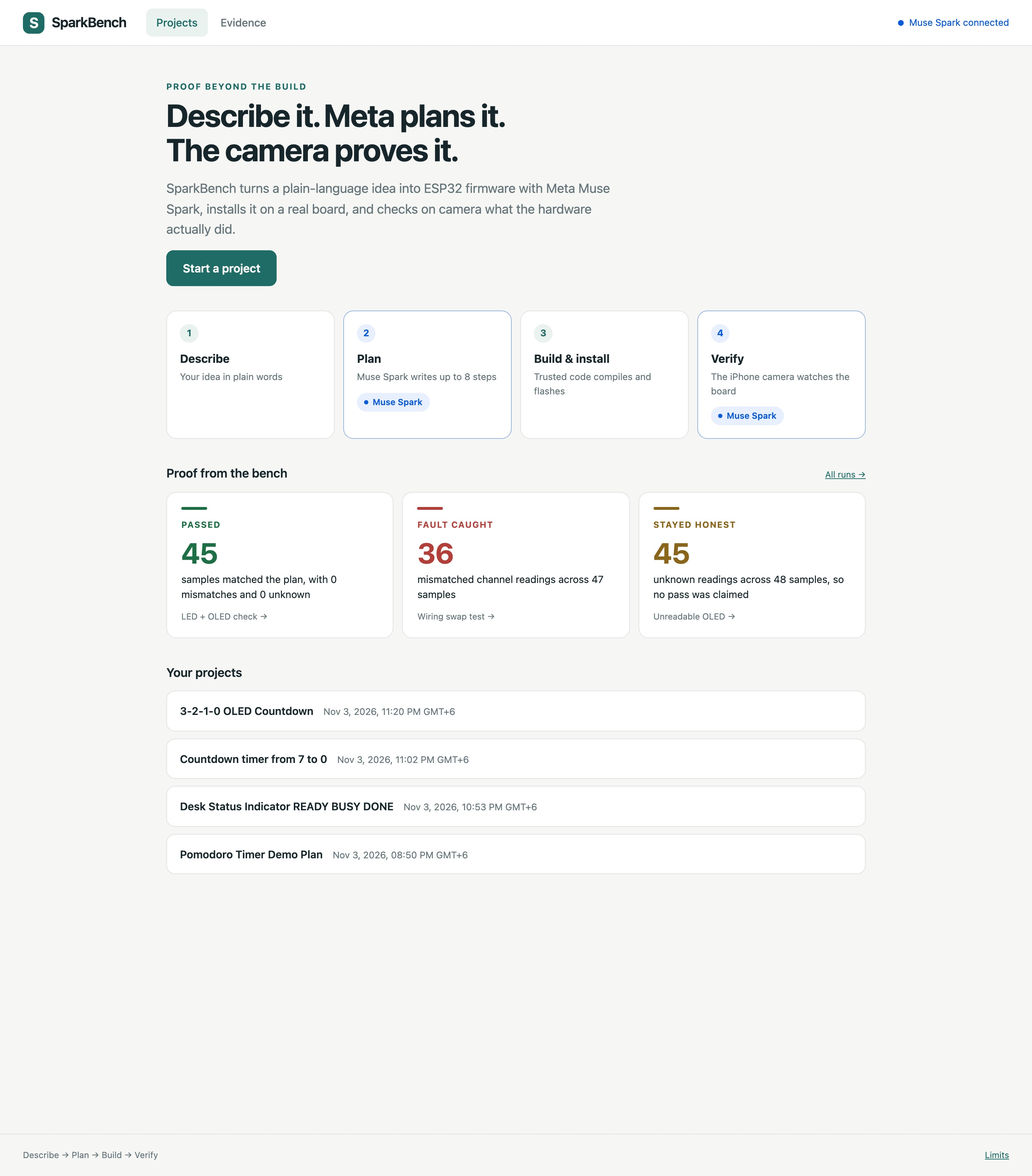
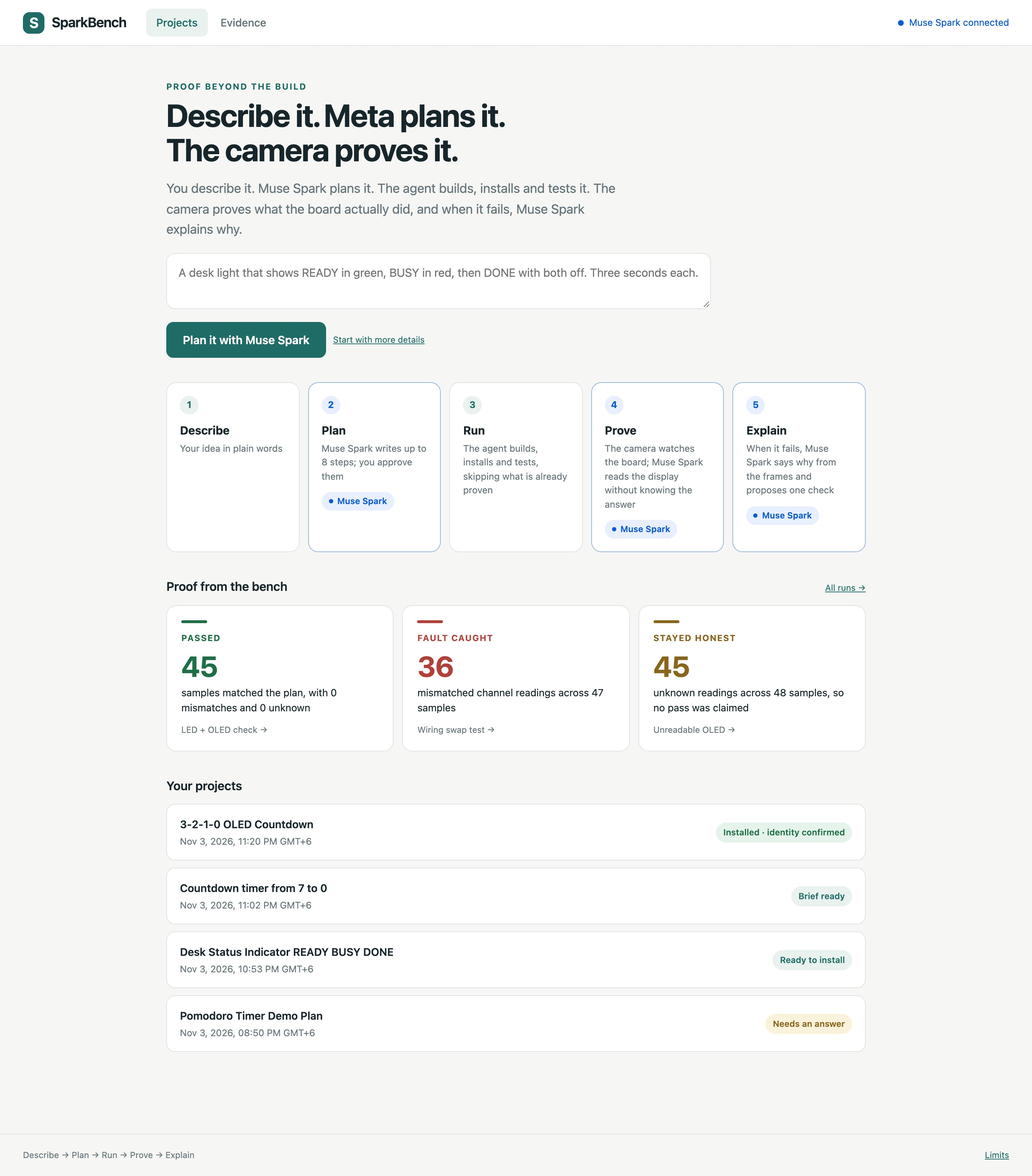
Home box to plan panel to agent; dashboard aligned with the story
The home page now opens with the idea box: "Plan it with Muse Spark"
creates the project, asks for the brief, accepts it and asks for the
step plan, all behind a panel that shows the state (planning, a
question with a reply box, the step table) and one button, "Approve
plan and run on the bench", which opens the project on the agent's
timeline. "Start with more details" still opens the full form.

Align the rest with the story: the home loop has the five beats
(describe, plan, run, prove, explain) with Muse Spark marked on three;
the lead sentence says who does what; project cards show their outcome
(verified on camera, mismatch, installed, needs an answer); the third
stage is "Prove it on the bench"; the verdict block states who did
what (plan: Muse Spark; firmware: trusted code; LEDs: pixels; OLED:
Muse Spark, blind; verdict: independent verifier; explanation: Muse
Spark, advisory). Verified home-to-bench in the browser with creation,
planning, hardware and Meta calls mocked; no console errors.

diff --git a/src/sparkbench/dashboard/static/projects.js b/src/sparkbench/dashboard/static/projects.js
@@ -1,9 +1,11 @@
 'use strict';
 let lastGuideRender='',project=null,projectCatalog=[],assemblySteps=[],projectVersion=0,projectPhotos=[],guideCapture=false,sourceFiles={};
 const uid=()=>crypto.randomUUID().replaceAll('-','');
-function projectError(message){$('project-error').textContent=message;$('project-error').hidden=false;}
+function projectError(message){$('project-error').textContent=message;$('project-error').hidden=false;if($('plan-dialog').open){$('dlg-error').textContent=message;$('dlg-error').hidden=false;}}
 function showGuide(){selectionVersion++;clearImage();current=null;showView('project');}
-async function refreshProjects(){const data=await api('/api/projects');projectCatalog=data.catalog;assemblySteps=data.assembly;$('project-list').replaceChildren(...(data.projects.length?data.projects.map(p=>{const b=node('button',undefined,'saved-plan-button');b.type='button';b.append(node('strong',p.title),node('small',p.busy?'Meta request in progress':date(p.updated_at_utc)));b.addEventListener('click',()=>openProject(p.id));return b;}):[node('p','Your saved builds appear here.','small muted')]));}
+// Each card shows where the project stands, from the same records the project page uses.
+async function projectOutcome(p){try{const s=await api('/api/projects/'+p.id+'/firmware-status');if(s.camera_result?.status==='pass')return ['Verified on camera','done'];if(s.camera_result?.status==='fail')return ['Mismatch on camera','bad'];if(s.state==='accept_brief'){const d=(await api('/api/projects/'+p.id)).draft;return d?.decision==='clarify'?['Needs an answer','warn']:d?.decision==='unsupported'?['Outside the kit','warn']:d?['Brief ready',''] :['Planning','']; }return [lifecycleLabels[s.state]||s.state,s.state==='installed'?'done':''];}catch(e){return ['',''];}}
+async function refreshProjects(){const data=await api('/api/projects');projectCatalog=data.catalog;assemblySteps=data.assembly;const outcomes=await Promise.all(data.projects.map(projectOutcome));$('project-list').replaceChildren(...(data.projects.length?data.projects.map((p,i)=>{const b=node('button',undefined,'saved-plan-button');b.type='button';const text=node('span');text.append(node('strong',p.title),node('small',p.busy?'Muse Spark is working…':date(p.updated_at_utc)));b.append(text);const [label,state]=outcomes[i];if(label){const pill=node('span',label,'pill');if(state)pill.dataset.state=state;b.append(pill);}b.addEventListener('click',()=>openProject(p.id));return b;}):[node('p','Your saved builds appear here.','small muted')]));}
 function fillProfile(){const profile=project?.profile;$('project-idea').value=project?.idea||'';$('project-idea').disabled=!!project;$('project-experience').value=profile?.experience||'beginner';$('project-budget').value=profile?.budget||'';$('project-parts-notes').value=profile?.parts_notes||'';const has=!!project;$('project-idea').hidden=has;$('project-idea-view').hidden=!has;$('project-idea-view').textContent=project?.idea||'';$('project-details').open=false;$('project-form-title').textContent=has?'The idea':'What should it do?';$('project-form-help').hidden=has;}
 async function openProject(id){showGuide();window.resetPlanStage?.();const version=++projectVersion;try{const p=await api('/api/projects/'+id);if(version!==projectVersion)return;project=p;fillProfile();clearProjectPhotos();renderProject();if(window.pollProjectFirmware)window.pollProjectFirmware(id,version);if(p.busy)pollProject(id,version);}catch(e){projectError(e.message);}}
 function listText(title,values,parent){if(!values?.length)return;const block=node('div',undefined,'guide-response-list');block.append(node('strong',title));const ul=node('ul');values.forEach(t=>ul.append(node('li',t)));block.append(ul);parent.append(block);}
@@ -54,7 +56,7 @@ $('open-guide').addEventListener('click',()=>{projectVersion++;project=null;show
 $('project-form').addEventListener('submit',async e=>{e.preventDefault();$('create-project').disabled=true;$('project-error').hidden=true;autoPlanNext=true;try{if(!plannerSession?.planning_available)throw new Error('Configure the existing Meta Contributor API locally before asking for a project.');project=await planningPost('/api/projects',{idea:$('project-idea').value,...profileValues(),request_id:uid()});fillProfile();renderProject();await refreshProjects();await sendGuide('Help me plan this idea. Clarify material missing details, suggest the required parts from the supported catalog, and give me one next step.');}catch(e){projectError(e.message);}finally{$('create-project').disabled=false;}});
 $('save-profile').addEventListener('click',()=>queueSave(()=>({})));$('guide-question-form').addEventListener('submit',e=>{e.preventDefault();sendGuide($('guide-question').value.trim());});
 // One next action at a time: accept-and-plan, open the existing plan, or reply to Muse Spark.
-function updateProjectActions(){const draft=project?.draft,accepted=project?.accepted,busy=!!project?.busy,snap=typeof lifecycleSnapshot!=='undefined'?lifecycleSnapshot:null;
+function updateProjectActionsCore(){const draft=project?.draft,accepted=project?.accepted,busy=!!project?.busy,snap=typeof lifecycleSnapshot!=='undefined'?lifecycleSnapshot:null;
  const changed=!!(accepted&&draft&&['title','summary','goals','components','firmware_instruction'].some(k=>JSON.stringify(draft[k])!==JSON.stringify(accepted.brief[k])));
  const canAccept=draft?.decision==='planned'&&(!accepted||changed),hasPlan=!!snap?.proposal,unresolved=!!draft&&!accepted&&draft.decision!=='planned';
  $('accept-brief').hidden=!canAccept;$('accept-brief').disabled=busy;$('accept-brief').textContent=accepted?'Accept the revised brief and plan →':'Accept and plan firmware →';
@@ -69,12 +71,27 @@ function updateProjectActions(){const draft=project?.draft,accepted=project?.acc
  else if(unresolved)$('lifecycle-next').textContent=draft.decision==='clarify'?'Next: answer the question so Muse Spark can finish the brief.':'Next: change the idea so it fits the bench, then ask again below.';
  else if(canAccept)$('lifecycle-next').textContent='Next: accept the '+(changed?'revised ':'')+'brief and plan the firmware.';
  else if(!snap)$('lifecycle-next').textContent='';}
+function updateProjectActions(){updateProjectActionsCore();window.updatePlanDialog?.();}
 window.updateProjectActions=updateProjectActions;
 async function prepareFirmware(){if(!project?.accepted||project.busy)return;try{if(!await queueSave(()=>({})))return;const job=await planningPost('/api/projects/'+project.id+'/firmware',{accepted_sha256:project.accepted.sha256,request_id:uid()});plannerBusy=true;showPlanner();pollProposal(job.id,++pollVersion);}catch(e){projectError(e.message);}}
 async function acceptAndPlan(){if(!project||project.busy)return;const latest=project.turns.findLast(t=>t.status==='complete');if(!latest)return;$('accept-brief').disabled=true;try{project=await planningPost('/api/projects/'+project.id+'/accept',{turn_id:latest.id});renderProject();await prepareFirmware();}catch(e){projectError(e.message);updateProjectActions();}}
 $('accept-brief').addEventListener('click',acceptAndPlan);$('project-firmware').addEventListener('click',prepareFirmware);
 $('brief-reply-form').addEventListener('submit',e=>{e.preventDefault();const text=$('brief-reply').value.trim();if(!text)return;$('brief-reply').value='';autoPlanNext=true;sendGuide(text);});
-$('approve-run').addEventListener('click',async()=>{if(!proposalResult||proposalResult.status!=='ready')return;$('approve-run').disabled=true;try{if(proposalResult.review_status!=='reviewed'){const r=await planningPost('/api/plans/'+proposalId+'/review',{plan_sha256:proposalResult.plan_sha256});renderProposal(r);}$('bench-stage').scrollIntoView({behavior:'smooth',block:'start'});await runBench();}catch(e){projectError(e.message);}finally{$('approve-run').disabled=false;updateProjectActions();}});
+async function approveAndRun(){if(!proposalResult||proposalResult.status!=='ready')return;$('approve-run').disabled=true;$('dlg-approve').disabled=true;try{if(proposalResult.review_status!=='reviewed'){const r=await planningPost('/api/plans/'+proposalId+'/review',{plan_sha256:proposalResult.plan_sha256});renderProposal(r);}if($('plan-dialog').open)$('plan-dialog').close();if($('guide-workspace').hidden)showView('project');$('bench-stage').hidden=false;$('bench-stage').scrollIntoView({behavior:'smooth',block:'start'});await runBench();}catch(e){projectError(e.message);}finally{$('approve-run').disabled=false;$('dlg-approve').disabled=false;updateProjectActions();}}
+$('approve-run').addEventListener('click',approveAndRun);$('dlg-approve').addEventListener('click',approveAndRun);
+// The plan modal mirrors the project's planning state so the home page can go idea → plan → bench.
+window.updatePlanDialog=function(){const d=$('plan-dialog');if(!d.open)return;const draft=project?.draft,accepted=project?.accepted,busy=!!project?.busy||(typeof plannerBusy!=='undefined'&&plannerBusy),ready=typeof proposalResult!=='undefined'&&proposalResult?.status==='ready';
+ $('dlg-title').textContent=accepted?.brief?.title||draft?.title||(project?'Planning your build':'New build');
+ const state=busy?(ready?'Muse Spark is updating the plan…':'Muse Spark is planning…'):ready?(proposalResult.review_status==='reviewed'?'Plan reviewed. Ready for the bench.':'Plan ready. Approve it to hand it to the agent.'):draft?.decision==='clarify'?'Muse Spark has a question for you':draft?.decision==='unsupported'?'That idea is outside the supported bench':draft?'Brief ready':'';
+ $('dlg-state').textContent=state;$('dlg-state').dataset.busy=String(busy);
+ $('dlg-summary').textContent=ready?(proposalResult.proposal?.summary||''):(draft?.summary||'');
+ $('dlg-goals').replaceChildren(...((ready?[]:(draft?.goals||[])).map(t=>node('li',t))));
+ const asking=draft?.decision==='clarify'&&!accepted&&!busy;$('dlg-question').hidden=!asking;$('dlg-question').replaceChildren(...((draft?.questions||[]).map(t=>node('p',t))));$('dlg-reply-form').hidden=!asking;
+ $('dlg-steps').replaceChildren(...[...$('proposal-steps').children].map(tr=>tr.cloneNode(true)));$('dlg-table').hidden=!ready;$('dlg-usage').textContent=ready?$('proposal-usage').textContent:'';
+ $('dlg-approve').hidden=!ready||busy;$('dlg-approve').textContent=proposalResult?.review_status==='reviewed'?'Run on the bench →':'Approve plan and run on the bench →';$('dlg-open').hidden=!project;};
+$('home-plan-form').addEventListener('submit',e=>{e.preventDefault();const idea=$('home-idea').value.trim();if(!idea)return;if(!plannerSession?.planning_available){projectError('Configure the Meta key first; see Limits.');return;}projectVersion++;project=null;window.resetPlanStage?.();fillProfile();clearProjectPhotos();$('project-idea').value=idea;$('project-experience').value='beginner';$('project-budget').value='';$('project-parts-notes').value='';$('project-error').hidden=true;$('dlg-error').hidden=true;renderProject();$('plan-dialog').showModal();window.updatePlanDialog();$('home-idea').value='';$('project-form').requestSubmit();});
+$('dlg-reply-form').addEventListener('submit',e=>{e.preventDefault();const text=$('dlg-reply').value.trim();if(!text)return;$('dlg-reply').value='';autoPlanNext=true;sendGuide(text);});
+$('dlg-open').addEventListener('click',()=>{$('plan-dialog').close();showView('project');});$('dlg-close').addEventListener('click',()=>$('plan-dialog').close());
 function clearProjectPhotos(){for(const p of projectPhotos)URL.revokeObjectURL(p.url);projectPhotos=[];$('guide-photos').value='';renderAttachments();}
 function renderAttachments(){$('guide-attachments').replaceChildren(...projectPhotos.map((p,i)=>{const figure=node('figure');const img=node('img');img.src=p.url;img.alt=p.name;const b=node('button','Remove','button');b.type='button';b.addEventListener('click',()=>{URL.revokeObjectURL(p.url);projectPhotos.splice(i,1);renderAttachments();});figure.append(img,node('figcaption',p.name,'small muted'),b);return figure;}));}
 async function attachFile(file){if(projectPhotos.length>=3)throw new Error('Attach up to three photos per question.');if(!['image/jpeg','image/png'].includes(file.type))throw new Error('Use JPEG or PNG photos; export HEIC as JPEG first.');if(file.size>20_000_000)throw new Error('Choose a photo smaller than 20 MB.');const bitmap=await createImageBitmap(file);if(bitmap.width*bitmap.height>50_000_000){bitmap.close();throw new Error('Please resize this very large image.');}const scale=Math.min(1,1600/Math.max(bitmap.width,bitmap.height));const canvas=document.createElement('canvas');canvas.width=Math.round(bitmap.width*scale);canvas.height=Math.round(bitmap.height*scale);canvas.getContext('2d').drawImage(bitmap,0,0,canvas.width,canvas.height);bitmap.close();const encoded=canvas.toDataURL('image/jpeg',.88);const blob=new Blob([Uint8Array.from(atob(encoded.split(',')[1]),c=>c.charCodeAt(0))],{type:'image/jpeg'});projectPhotos.push({name:(file.name.replace(/\.[^.]+$/,'')+'.jpg').slice(0,120),data:encoded.split(',')[1],url:URL.createObjectURL(blob)});renderAttachments();}

diff --git a/src/sparkbench/dashboard/static/index.html b/src/sparkbench/dashboard/static/index.html
@@ -34,15 +34,20 @@
   <div class="hero">
     <p class="eyebrow">Proof beyond the build</p>
     <h1 class="hero-title">Describe it. Meta plans it.<br>The camera proves it.</h1>
-    <p class="lead">SparkBench turns a plain-language idea into ESP32 firmware with Meta Muse Spark, installs it on a real board, and checks on camera what the hardware actually did.</p>
-    <div class="actions"><button id="open-guide" class="primary-button large" type="button">Start a project</button></div>
+    <p class="lead">You describe it. Muse Spark plans it. The agent builds, installs and tests it. The camera proves what the board actually did, and when it fails, Muse Spark explains why.</p>
+    <form id="home-plan-form" class="home-plan">
+      <label for="home-idea" class="sr-only">What should the board do?</label>
+      <textarea id="home-idea" rows="2" maxlength="2000" required placeholder="A desk light that shows READY in green, BUSY in red, then DONE with both off. Three seconds each."></textarea>
+      <div class="actions wrap"><button id="home-plan" class="primary-button large" type="submit">Plan it with Muse Spark</button><button id="open-guide" class="link-button" type="button">Start with more details</button></div>
+    </form>
   </div>
 
   <ol class="loop" aria-label="How it works">
     <li><span class="loop-n">1</span><strong>Describe</strong><span>Your idea in plain words</span></li>
-    <li class="meta"><span class="loop-n">2</span><strong>Plan</strong><span>Muse Spark writes up to 8 steps</span><em class="meta-chip">Muse Spark</em></li>
-    <li><span class="loop-n">3</span><strong>Build &amp; install</strong><span>Trusted code compiles and flashes</span></li>
-    <li class="meta"><span class="loop-n">4</span><strong>Verify</strong><span>The iPhone camera watches the board</span><em class="meta-chip">Muse Spark</em></li>
+    <li class="meta"><span class="loop-n">2</span><strong>Plan</strong><span>Muse Spark writes up to 8 steps; you approve them</span><em class="meta-chip">Muse Spark</em></li>
+    <li><span class="loop-n">3</span><strong>Run</strong><span>The agent builds, installs and tests, skipping what is already proven</span></li>
+    <li class="meta"><span class="loop-n">4</span><strong>Prove</strong><span>The camera watches the board; Muse Spark reads the display without knowing the answer</span><em class="meta-chip">Muse Spark</em></li>
+    <li class="meta"><span class="loop-n">5</span><strong>Explain</strong><span>When it fails, Muse Spark says why from the frames and proposes one check</span><em class="meta-chip">Muse Spark</em></li>
   </ol>
 
   <section class="home-section" aria-labelledby="proof-heading">
@@ -63,7 +68,7 @@
   <ol class="stepper" id="project-stepper">
     <li data-step="1" data-target="#project-form-card" class="current"><span>1</span>Describe</li>
     <li data-step="2" data-target="#plan-stage"><span>2</span>Plan</li>
-    <li data-step="3" data-target="#bench-stage"><span>3</span>Bench</li>
+    <li data-step="3" data-target="#bench-stage"><span>3</span>Prove</li>
   </ol>
   <p id="project-error" class="error-line" role="alert" hidden></p>
 
@@ -125,7 +130,7 @@
   </section>
 
   <section class="card stage-card" id="bench-stage" hidden>
-    <div class="stage-head"><span class="stage-n">3</span><h2>On the bench</h2><span id="autopilot-status" class="pill"></span></div>
+    <div class="stage-head"><span class="stage-n">3</span><h2>Prove it on the bench</h2><span id="autopilot-status" class="pill"></span></div>
     <p class="help">The agent runs the same jobs a person would click, skips what the records already prove, and stops wherever a person is needed. It never touches wiring or limits.</p>
     <ol id="timeline" class="timeline"></ol>
     <div class="actions wrap"><button id="run-bench" class="primary-button" type="button" disabled>Run on the bench</button><button id="stop-bench" class="button danger" type="button" hidden>Stop</button><span id="execution-status" class="help" role="status"></span></div>
@@ -138,6 +143,14 @@
         <div><strong id="test-mismatches"></strong><span>mismatches</span></div>
         <div><strong id="test-unknowns"></strong><span>unknown</span></div>
       </div>
+      <dl class="roles" aria-label="Who did what">
+        <div><dt>Plan</dt><dd class="role-meta">Muse Spark</dd></div>
+        <div><dt>Firmware</dt><dd>trusted local code</dd></div>
+        <div><dt>LEDs</dt><dd>pixel measurement</dd></div>
+        <div><dt>OLED text</dt><dd class="role-meta">Muse Spark, blind</dd></div>
+        <div><dt>Verdict</dt><dd>independent verifier</dd></div>
+        <div><dt>Explanation</dt><dd class="role-meta">Muse Spark, advisory</dd></div>
+      </dl>
     </div>
     <img id="execution-image" class="test-frame" alt="Camera test frame" hidden>
     <p id="execution-image-label" class="help"></p>
@@ -292,9 +305,29 @@
 </main>
 
 <footer class="footer">
-  <span>Describe → Plan → Bench</span>
+  <span>Describe → Plan → Run → Prove → Explain</span>
   <button id="open-limits" class="link-button" type="button">Limits</button>
 </footer>
+
+<dialog id="plan-dialog" aria-label="Plan">
+  <div class="dialog-header"><div><p class="eyebrow">Plan</p><strong id="dlg-title">Planning your build</strong></div><button id="dlg-close" class="button" type="button">Close</button></div>
+  <p id="dlg-state" class="dlg-state"></p>
+  <p id="dlg-error" class="error-line" role="alert" hidden></p>
+  <p id="dlg-summary" class="copy"></p>
+  <ul id="dlg-goals" class="goals"></ul>
+  <div id="dlg-question" class="question-box" hidden></div>
+  <form id="dlg-reply-form" hidden>
+    <label for="dlg-reply">Your answer</label>
+    <textarea id="dlg-reply" rows="2" maxlength="3000" required placeholder="Type your answer and Muse Spark will update the plan."></textarea>
+    <div class="actions"><button class="primary-button" type="submit">Reply to Muse Spark</button></div>
+  </form>
+  <table id="dlg-table" class="plan-table" hidden><thead><tr><th>Step</th><th>Red</th><th>Green</th><th>OLED</th><th>Time</th></tr></thead><tbody id="dlg-steps"></tbody></table>
+  <p id="dlg-usage" class="help"></p>
+  <div class="actions wrap">
+    <button id="dlg-approve" class="primary-button" type="button" hidden>Approve plan and run on the bench →</button>
+    <button id="dlg-open" class="button" type="button">Open the project</button>
+  </div>
+</dialog>
 
 <dialog id="limits-dialog" aria-label="Limits">
   <div class="dialog-header"><strong>What SparkBench does and does not claim</strong><button id="close-limits" class="button" type="button">Close</button></div>

diff --git a/src/sparkbench/dashboard/static/planning.js b/src/sparkbench/dashboard/static/planning.js
@@ -8,7 +8,7 @@ const unresolvedNotes = {
   invalid_response: 'No usable plan came back and nothing was retried. Prepare the plan again from the project.',
   error: 'The request failed and nothing was retried. Prepare the plan again from the project.',
 };
-function showPlanner(scroll=true){if($('guide-workspace').hidden)showView('project');$('plan-stage').hidden=false;if(scroll)$('plan-stage').scrollIntoView({behavior:'smooth',block:'start'});}
+function showPlanner(scroll=true){if($('plan-dialog').open){$('plan-stage').hidden=false;return;}if($('guide-workspace').hidden)showView('project');$('plan-stage').hidden=false;if(scroll)$('plan-stage').scrollIntoView({behavior:'smooth',block:'start'});}
 window.resetPlanStage=function(){pollVersion++;proposalId=null;proposalResult=null;plannerBusy=false;$('planner-result').hidden=true;$('planner-error').hidden=true;$('bench-stage').hidden=true;$('agent-decision').hidden=true;if(window.executionProposal)window.executionProposal(null);};
 function backToProject(){$('project-form-card').scrollIntoView({behavior:'smooth',block:'start'});$('guide-conversation-card').open=true;}
 $('plan-back-to-project').addEventListener('click',backToProject);
@@ -24,7 +24,7 @@ function renderProposal(result){proposalResult=result;proposalId=result.id;$('pl
  const tokens=result.usage?.total_tokens??((result.usage?.prompt_tokens??0)+(result.usage?.completion_tokens??0)||undefined);const metrics=['Muse Spark'];if(typeof result.latency_seconds==='number')metrics.push(result.latency_seconds.toFixed(1)+' s');if(tokens)metrics.push(tokens.toLocaleString()+' tokens');$('proposal-usage').textContent=metrics.join(' · ');$('proposal-usage').title=result.model||'';
  $('bench-stage').hidden=result.status!=='ready';if(window.executionProposal)window.executionProposal(result);if(window.loadFirmwareSource)window.loadFirmwareSource(result);window.updateProjectActions?.();
  $('proposal-evidence').replaceChildren();for(const [label,v] of Object.entries({'Instruction':result.instruction,'Saved plan':'runs/planning/intent-v1/'+result.id,'Plan SHA-256':result.plan_sha256||'No executable plan','Model':result.model||'Unavailable','Tokens':result.usage?(result.usage.prompt_tokens??'?')+' in / '+(result.usage.completion_tokens??'?')+' out':'Unavailable','API requests':result.api_requests??'Unavailable'})){$('proposal-evidence').append(node('dt',label),node('dd',String(v)));}}
-async function pollProposal(id,version){try{const result=await api('/api/plans/'+id);if(version!==pollVersion)return;renderProposal(result);if(['queued','generating'].includes(result.status)){setTimeout(()=>pollProposal(id,version),700);return;}plannerBusy=false;}catch(e){if(version!==pollVersion)return;plannerBusy=false;plannerError(e.message);}}
+async function pollProposal(id,version){try{const result=await api('/api/plans/'+id);if(version!==pollVersion)return;renderProposal(result);if(['queued','generating'].includes(result.status)){setTimeout(()=>pollProposal(id,version),700);return;}plannerBusy=false;window.updateProjectActions?.();}catch(e){if(version!==pollVersion)return;plannerBusy=false;plannerError(e.message);window.updateProjectActions?.();}}
 async function openSavedProposal(id,scroll=true){if(plannerBusy){showPlanner(scroll);return;}const version=++pollVersion;showPlanner(scroll);try{const result=await api('/api/plans/'+id);if(version!==pollVersion)return;renderProposal(result);}catch(e){plannerError(e.message);}}
 $('review-plan').addEventListener('click',async()=>{if(!proposalResult||proposalResult.status!=='ready')return;$('review-plan').disabled=true;try{const result=await planningPost('/api/plans/'+proposalId+'/review',{plan_sha256:proposalResult.plan_sha256});renderProposal(result);}catch(e){plannerError(e.message);$('review-plan').disabled=false;}});
 (async()=>{try{plannerSession=await api('/api/session');const ok=!!plannerSession.planning_available;$('planner-config').textContent=ok?'Muse Spark connected':'Meta key not configured';$('planner-config').dataset.ok=String(ok);$('planner-config').title=ok?plannerSession.model:'Set META_API_KEY and META_MODEL=muse-spark-1.3-contributor in .env';}catch(e){$('planner-config').textContent='Meta status unavailable';$('planner-config').dataset.ok='false';}})();

diff --git a/src/sparkbench/dashboard/static/style.css b/src/sparkbench/dashboard/static/style.css
@@ -462,3 +462,31 @@ details.card[open] > summary { margin-bottom: 16px; }
 #manual-controls { margin-top: 18px; }
 #manual-controls .checklist { margin-top: 8px; }
 #execution-status:empty { display: none; }
+
+/* Story alignment: five-beat loop, project outcomes, who-did-what */
+.loop { grid-template-columns: repeat(5, minmax(0, 1fr)); }
+@media (max-width: 1100px) { .loop { grid-template-columns: repeat(3, minmax(0, 1fr)); } }
+@media (max-width: 760px) { .loop { grid-template-columns: repeat(2, minmax(0, 1fr)); } }
+.saved-plan-button { justify-content: space-between; }
+.saved-plan-button > span:first-child { min-width: 0; }
+.saved-plan-button .pill { flex-shrink: 0; }
+.roles { display: grid; grid-template-columns: repeat(3, minmax(0, 1fr)); gap: 8px 16px; margin: 4px 0 0; font-size: 13px; }
+.roles div { display: flex; gap: 8px; align-items: baseline; }
+.roles dt { color: var(--muted); }
+.roles dd { margin: 0; font-weight: 600; }
+.roles .role-meta { color: var(--meta); }
+@media (max-width: 760px) { .roles { grid-template-columns: repeat(2, minmax(0, 1fr)); } }
+
+/* Home idea box and the plan modal */
+.home-plan { margin-top: 18px; max-width: 760px; }
+.home-plan textarea { font-size: 16px; padding: 14px 16px; border-radius: 12px; background: var(--panel); }
+.home-plan .actions { margin-top: 12px; }
+#plan-dialog { width: min(96vw, 760px); }
+#plan-dialog .dialog-header strong { font-size: 20px; }
+#plan-dialog .eyebrow { margin-bottom: 2px; }
+.dlg-state { font-size: 15px; font-weight: 600; margin-bottom: 10px; }
+.dlg-state:empty { display: none; }
+.dlg-state[data-busy="true"]::after { content: ""; display: inline-block; width: 10px; height: 10px; margin-left: 10px; border-radius: 50%; border: 2px solid var(--accent); border-top-color: transparent; animation: dlg-spin .8s linear infinite; vertical-align: middle; }
+@keyframes dlg-spin { to { transform: rotate(360deg); } }
+#dlg-summary:empty, #dlg-usage:empty { display: none; }
+#dlg-table { margin-top: 12px; }

diff --git a/docs/dashboard.md b/docs/dashboard.md
@@ -8,7 +8,7 @@ Start from the project folder using the existing local environment:
 
 Open **http://127.0.0.1:8765**. To use another local port, add `--port 8766`. Stop the server with Ctrl-C. The command binds only to the Mac's loopback address and needs local network-listening permission if launched from a sandbox.
 
-Open **Projects → New project**. The project page is one flow in three stages: **Describe** (the idea; **Plan it with Muse Spark** asks for a brief, accepts it and asks for the step plan in one go, or shows Muse Spark's question with a reply box), **Plan** (the step table; **Approve plan and run on the bench** marks it reviewed and starts the agent), and **On the bench** (a timeline of compile, connect, install, identity, camera test, explain and decision, with the verdict, the key frame and the decision at the end). Manual controls, devices, logs, Ask Meta with photos and the parts checklist fold away below. Caveats that used to sit under every control now live behind the **Limits** link in the footer.
+Type the idea into the box on the Projects page and press **Plan it with Muse Spark**: a panel shows Muse Spark's brief, its question if it has one, and then the step table with **Approve plan and run on the bench**, which opens the project on the agent's timeline. **Start with more details** opens the full project form instead. The project page is one flow in three stages: **Describe** (the idea; **Plan it with Muse Spark** asks for a brief, accepts it and asks for the step plan in one go, or shows Muse Spark's question with a reply box), **Plan** (the step table; **Approve plan and run on the bench** marks it reviewed and starts the agent), and **On the bench** (a timeline of compile, connect, install, identity, camera test, explain and decision, with the verdict, the key frame and the decision at the end). Manual controls, devices, logs, Ask Meta with photos and the parts checklist fold away below. Caveats that used to sit under every control now live behind the **Limits** link in the footer.
 
 The Projects page opens with the one-line pitch, the four-step loop and three proof cards drawn from real recorded runs: a pass, the caught wiring fault and an incomplete run. Each card opens its evidence. Every place a Meta model contributes carries a blue Muse Spark mark. A run page opens on the frame that tells its story: the first mismatch for a fault, the first unknown reading for an incomplete run. See [the build-guide walkthrough](build-guide.md). Guidance and photo capture are explicit actions; browsing saved projects makes no model calls. Compiled proposals also offer source/binary downloads and a source viewer.
 

diff --git a/README.md b/README.md
@@ -33,7 +33,7 @@ Failures and unknowns are kept, not hidden.
 
 | Beat | What happens | Evidence |
 | --- | --- | --- |
-| Describe | "Show READY in green, BUSY in red, then DONE with both off, 3 s each." Meta clarifies the idea, picks parts from the supported kit and drafts the behavior. | Project page (Projects → New project) |
+| Describe | Type "Show READY in green, BUSY in red, then DONE with both off, 3 s each." into the box on the home page. Muse Spark clarifies the idea, picks parts from the supported kit and drafts the behavior; a panel shows the brief and then the step table. | Home page box and plan panel |
 | Plan | Meta's intent planner returns up to 8 steps as strict JSON. Ambiguous requests get one question; unsupported hardware is refused, not approximated. | 8/8 frozen benchmark cases matched the independently written expectations |
 | Approve and run | One click marks the plan reviewed and hands it to the agent, which compiles (a C++ data table rendered by trusted code), connects, flashes the application only, confirms identity over UART, and skips any step the saved records already prove. A live timeline shows each decision. | Hashes and logs per job; the timeline on the page |
 | Verify | The iPhone records the board while the firmware runs. LED colours are measured from pixels; OLED text is read by Meta without being told the expected label. | 45 sampled observations, 0 mismatches, 0 unknowns |

diff --git a/docs/story.md b/docs/story.md
@@ -79,10 +79,11 @@ and 4 November, so say it once at the start, keep it on screen, and label record
 
 1. 0:00 Title card: "SparkBench. Built from scratch, 27 Oct – 4 Nov 2026." One line over the home
    page: "AI builds it. Who checks it?"
-2. 0:15 New project. Type the desk-light sentence, press "Plan it with Muse Spark". The brief and
-   the step table appear on the same page.
-3. 0:45 Press "Approve plan and run on the bench". The agent's timeline lights up: compile, connect,
-   install, identity, camera test, each with what it did or why it skipped it.
+2. 0:15 On the home page, type the desk-light sentence into the box and press "Plan it with Muse
+   Spark". A panel opens: Muse Spark's brief, then the step table.
+3. 0:45 Press "Approve plan and run on the bench" in the panel. The project opens on the agent's
+   timeline: compile, connect, install, identity, camera test, each with what it did or why it
+   skipped it.
 4. 1:10 The phone watches the board. Verdict: verified on camera, with the numbers and the frame.
 5. 1:40 Swap the two LED wires. Press "Run again". The timeline turns at Camera test: mismatch.
 6. 2:05 The agent asks Muse Spark to explain; the Explain row names the swap, the Decision row says
